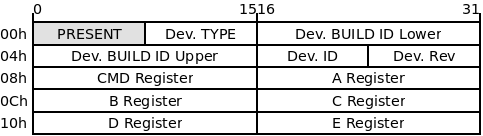
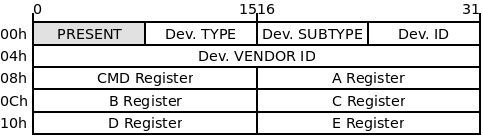
Revised Enumeration & Control for devices

diff --git a/README.md b/README.md
@@ -40,14 +40,16 @@ SUMMARY
  - Addresses 0x110000 to 0x112000 are reserved to Devices Enumeration and 
    Communication.
  - At address 0x11**XX**00, were **XX** is the device slot number (to a total 
-   of 32 -> 0x20), there is mapped an address block that consists : 
-   Device Type, Device Builder ID, Device ID, CMD, A, B, C, D, E hardware registers. 
+   of 32 -> 0x20), there is mapped the **Enumeration And Control registers** of 
+   device **XX**, that consists : 
+   Device Type, Device SubType, Device ID, Device Vendor ID, CMD, A, B, C, 
+   D, E hardware registers. 
  - Devices could do **DMA** operations at will, but ONLY one device could do 
    that at same time, and can only transfer 4 bytes every Device Clock (like 
    if the DMA operates in the falling clock flank and the CPU operated in the
    rising clock flank.)
  - Usually the devices exposes his own ram and&or uses commands. The only 
-   exception is the most basic graphcis device that uses computer RAM as buffer.
+   exception is the most basic graphics device that uses computer RAM as buffer.
  - The computer can be expanded to a total 32 devices, not counting integrated 
    devices on motherboard. This can be archived by plugin the device boards in 
    the expansion bus. Some devices will require a external module attached to 
@@ -93,19 +95,19 @@ the CPU, and just ignore the Interrupt petitions for the rest of the loop.
 ### Hardware Enumeration
 
 Devices maps 0x11**XX**00 address block, were XX is the slot were is plugged. 
-In these address block, there is a few registers :
+In these address block that we call **Enumeration And Control registers**, there
+ is a few registers :
 
  - Present flag (Read byte): At offset 0,there is a byte that always read 0xFF 
-   if a device is plugged in these slot
+   if a device is plugged in these slot.
  - Device Type register (Read byte): At offset 1, there is a byte that gives 
-  information about the device type (see Device Type list section)
- - Device Builder ID register (Read dword) : At offset 2, there is dword that 
-   gives the Builder ID of the device (see know Device Builder list section)
- - Device ID register (Read byte) : At offset 6, there is a byte that gives the
+   information about the device type (see Device Type list section).
+ - Device SubType register (Read byte): At offset 2, there is a byte that gives 
+   information about the device subtype (see Device Type list section).
+ - Device ID register (Read byte) : At offset 3, there is a byte that gives the
    Device ID. 
- - Device Revision register (Read byte) : At offset 7, there is a byte that 
-   gives the Device Revision. It's expected that higher revision are backwards 
-   compatible , adding new features or fixing bugs in previous revisions.
+ - Device Vendor ID register (Read dword) : At offset 4, there is dword that 
+   gives the Vendor/Builder ID of the device (see know Device Vendor list section). 
  - CMD register (Write word) : At offset 8, there is a d that writing to it, 
    sends a command to the device. The command list is dependent of the device,
    and is showed in the device specs.
@@ -113,32 +115,42 @@ In these address block, there is a few registers :
    there is five word registers that are used to send values with the commands 
    and receive status/error or other stuff from the devices.
 
-![Device Configuration And Control Header](./DevConfigHeader.png "DevHeader")
+![Device Enumeration And Control Header](./DevConfigHeader.png "DevHeader")
  
 To know how many devices are plugged to the computer, you only need to read the 
 first byte of the 32 addresses and count one more for every byte being 0xFF.
-The tuple {Device Type, Device ID} defines a unique device. This information 
+The tuple {Device Vendor ID, Device ID} defines a unique device. This information 
 can be used to allow the software know what device is plugged and how should 
 use it.
+Devices that have the same {Device Type ID, Device SubType ID} are expect that 
+share some minimal compatibility. To archive this, should share a minimal list 
+of commands with the same expected behavior.
 
 **NOTE FOR USERS**: This is nearly the same stuff that does the original 
 Notch's DCPU-16, but being memory mapped instead of being special magic 
 instructions. Each device have his own set registers. The device at slot 0 have
-this registers at 0x110000, and A register is at 0x11000A; device 8 have his 
-registers at 0x110800, and BuildID register is at 0x110802; etc...
+this registers at 0x110000, and his A register is at 0x11000A; device 8 have this 
+registers at 0x110800, and his BuildID register is at 0x110804; etc...
 
-#### Device Class values
+#### Device Types and SubTypes values
 
+Here is a list of Device Types. Each entry could contain a sublist of actually know subtypes.
+
+ - 0x00 : Unclassified device
  - 0x01 : Audio devices (Sound Cards)
- - 0x02 : Communications devices
- - 0x03 : HID (Human Interface Device)
- - 0x04 : Expansion buses
- - 0x06 : Image/Video Input Devices
- - 0x07 : Printer (2D and 3D) Devices
- - 0x08 : Mass Storage Device (Floppy drives, Microdrives, Hard disks, Tape 
+ - 0x02 : Communications device
+ - 0x03 : HID (Human Interface Device)  
+     - 0x01 : Western/Latin Keyboard
+ - 0x04 : Expansion bus device
+ - 0x06 : Image/Video Input device
+ - 0x07 : Printer (2D and 3D) device
+ - 0x08 : Mass Storage device (Floppy drives, Microdrives, Hard disks, Tape 
    recorders)
+     - 0x01 : Floppy drive
+ - 0x09 : Network device
  - 0x0A : Co-Processors
  - 0x0E : Graphics Devices (Graphics card)
+     - 0x01 : TGA compatible
  - 0x0F : HoloGraphics Devices
  - 0x10 : Ship Sensors (DRADIS, Air, Hull integrity, etc...)
  - 0x11 : Power Management Systems (control of Generators)
@@ -150,11 +162,12 @@ registers at 0x110800, and BuildID register is at 0x110802; etc...
  - 0x1C : Sub-FTL Navigational and Engine Systems (control of thrusters and 
    engines)
  - 0x1D : FTL Navigational Systems (control of warp engines)
- - 0xFF : Multifunction devices.
+ - 0xFF : Unassigned class
 
-#### Know Builder values
+#### Know Vendor values
 
 - 0x00000000 -> Unknown builder (reserved value)
+- 0x048BAD15 -> RocoCorp.
 - 0x1C6C8B36 -> Nya Elektriska
 - 0x1EB37E91 -> Mackapar Media
 - 0x21544948 -> Harold Innovation Technologies (Harold I.T.)

diff --git a/TGA.md b/TGA.md
@@ -1,25 +1,25 @@
-Text Generator Adapter
-=====================
-Version 0.1a (WIP) 
+Nya Elektriska Text Generator Adapter
+=====================================
+Version 0.1b (WIP) 
 
-The Text Generator Adapter (TGA) device allows to display text with color and 
-an optional RAM defined font.
+The Text Generator Adapter (TGA) device  usesa programable character generator 
+that allows to display text with color and could use user defined font.
 
  - Allowed Text modes : 40x30 8x8 pixel font cell
 
 The refresh rate should be around 25 hz.
 
- - Device Class    : 0x0E (Graphics Device)
+ - Device Type     : 0x0E (Graphics Device)
+ - Device SubType  : 0x01 
  - Device Builder  : 0x1C6C8B36 (Nya Elektriska)
- - Device ID       : 0x01 (TGA standard) 
- - Device Rev      : 0x00  
+ - Device ID       : 0x01 (Nya Elektriska TGA)
 
 RESOURCES
 ---------
 
 A basic TGA card uses 2400 Bytes of computer RAM for the Text buffer and 
 optionally can use 2KiB of ram for a user defined font. Also, could generate a 
-interrupt for Vsync events.
+interrupt for VSync events.
 
 COMMANDS
 --------

diff --git a/CDA.md b/CDA.md
@@ -1,6 +1,6 @@
-Color Display Adapter
-=====================
-Version 0.5 (WIP) 
+Investronics Color Display Adapter
+==================================
+Version 0.5a (WIP) 
 
 The Color Display Adapter (CDA) device allows to display text and graphics in 
 color, using a 16 programmable color palette. It's compatible with TGA device.
@@ -11,9 +11,9 @@ color, using a 16 programmable color palette. It's compatible with TGA device.
 The refresh rate should be around 25 hz.
 
  - Device Class    : 0x0E (Graphics Device)
+ - Device SubType  : 0x01 (TGA compatible)
  - Device Builder  : 0x494E5645 (Investronics)
- - Device ID       : 0x02 (CDA standard)
- - Device Rev      : 0x00
+ - Device ID       : 0x01 
 
 
 RESOURCES

diff --git a/floppy_drive.md b/floppy_drive.md
@@ -1,13 +1,13 @@
-5.25" Floppy Drive
-==================
-Version 0.1a
+Mackapar 5.25" Floppy Drive
+===========================
+Version 0.1b
 
 Name: Mackapar 5.25" Floppy Drive (M5FDD) 
 
- - Device Class    : 0x08 (Mass Storage Device)
+ - Device Types    : 0x08 (Mass Storage Device)
+ - Device SubType  : 0x01 (Floppy Drive)
  - Device Builder  : 0x1EB37E91 (Mackapar Media)
- - Device ID       : 0x01 (5.25" Floppy drive) 
- - Device Rev      : 0x00  
+ - Device ID       : 0x01
 
 The Mackapar 5.25" Floppy Drive is compatible with all standard 5.25" 1200 KiB 
 and 360KiB floppy disks. The floppies uses sectors of 512 bytes.

diff --git a/Keyboard.md b/Keyboard.md
@@ -1,13 +1,13 @@
-Generic Keyboard controller
+Generic Western/Latin Keyboard controller
 ================
-Version 0.5 (WIP) 
+Version 0.5a (WIP) 
 
 Generic Keyboard controller. Handles an internal buffer to store key events.
 
- - Device Class    : 0x03 (HID)
+ - Device Type     : 0x03 (HID)
+ - Device SubType  : 0x01 (Western/Latin Keyboard)
  - Device Builder  : 0x00000000
- - Device ID       : 0x0001 (Generic Keyboard standard)
- - Device Rev      : 0x00   
+ - Device ID       : 0x01 (Generic Keyboard standard)
 
 
 RESOURCES
